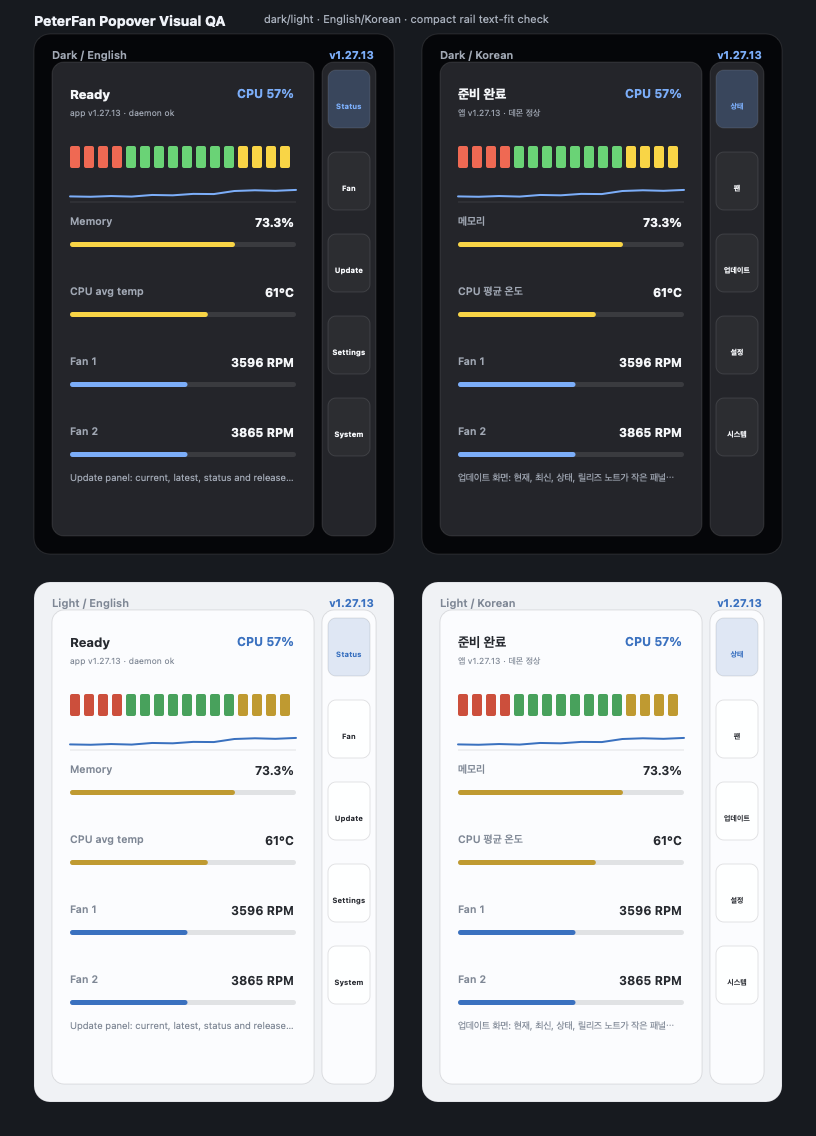
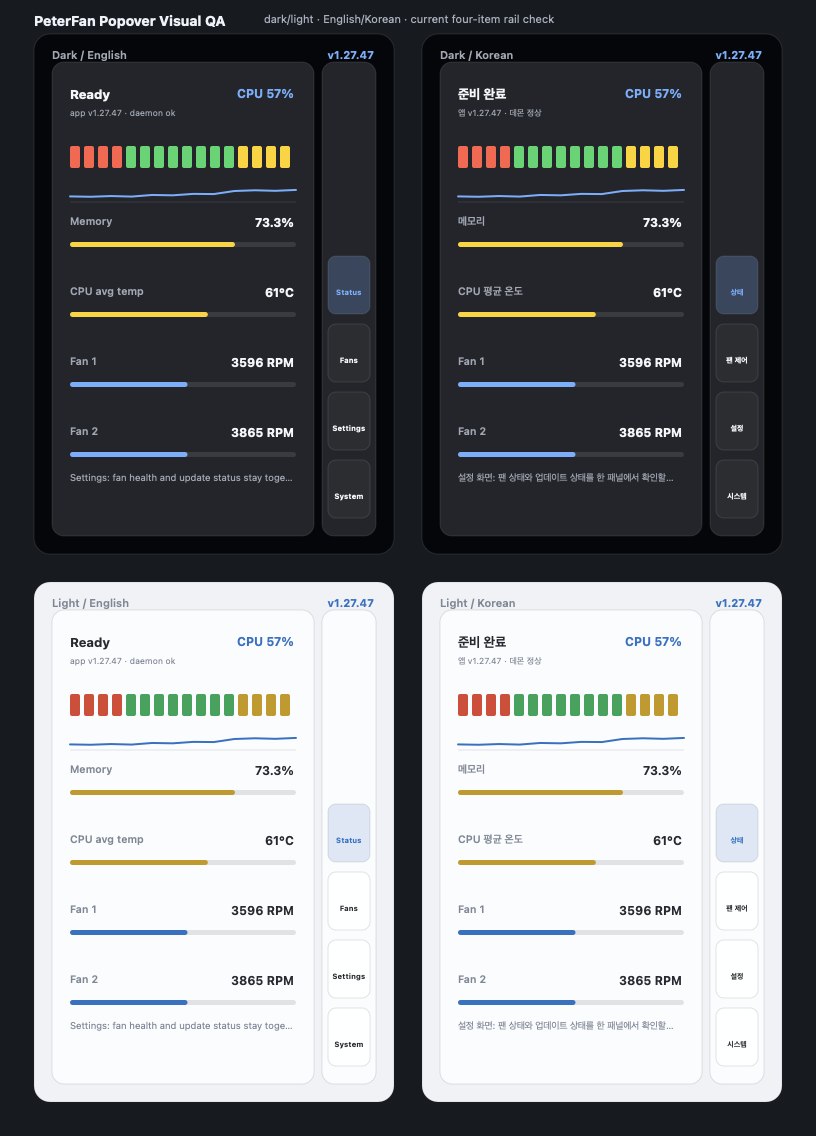
docs: align popover QA with current rail

diff --git a/scripts/render-popover-qa.swift b/scripts/render-popover-qa.swift
@@ -177,23 +177,25 @@ func drawCase(_ spec: CaseSpec, origin: CGPoint) {
     }
 
     let notes = label(
-        "Update panel: current, latest, status and release notes fit inside the compact pane.",
-        "업데이트 화면: 현재, 최신, 상태, 릴리즈 노트가 작은 패널 안에서 잘려 보이지 않아야 합니다.",
+        "Settings: fan health and update status stay together in one compact pane.",
+        "설정 화면: 팬 상태와 업데이트 상태를 한 패널에서 확인할 수 있어야 합니다.",
         spec
     )
     text(notes, NSRect(x: panel.minX + 18, y: panel.minY + 20, width: 226, height: 44), 9.5, p.dim)
 
     let railLabels = [
         label("Status", "상태", spec),
-        label("Fan", "팬", spec),
-        label("Update", "업데이트", spec),
+        label("Fans", "팬 제어", spec),
         label("Settings", "설정", spec),
         label("System", "시스템", spec),
     ]
+    let railItemHeight: CGFloat = 58
+    let railGap: CGFloat = 10
+    let railBottomInset: CGFloat = 18
     for (index, item) in railLabels.enumerated() {
-        let y = rail.maxY - 66 - CGFloat(index) * 82
+        let y = rail.minY + railBottomInset + CGFloat(railLabels.count - 1 - index) * (railItemHeight + railGap)
         let fill = index == 0 ? p.accent.withAlphaComponent(spec.isDark ? 0.24 : 0.15) : p.section
-        rounded(NSRect(x: rail.minX + 6, y: y, width: 42, height: 58), radius: 8, fill: fill, stroke: p.line)
+        rounded(NSRect(x: rail.minX + 6, y: y, width: 42, height: railItemHeight), radius: 8, fill: fill, stroke: p.line)
         text(item, NSRect(x: rail.minX + 8, y: y + 11, width: 38, height: 15), 7.4, index == 0 ? p.accent : p.text, weight: .bold, align: .center)
     }
 }
@@ -202,7 +204,7 @@ image.lockFocus()
 c(18, 20, 24).setFill()
 NSRect(origin: .zero, size: size).fill()
 text("PeterFan Popover Visual QA", NSRect(x: margin, y: size.height - 30, width: 320, height: 18), 14, c(234, 238, 246), weight: .bold)
-text("dark/light · English/Korean · compact rail text-fit check", NSRect(x: margin + 230, y: size.height - 30, width: 420, height: 18), 11, c(151, 161, 176))
+text("dark/light · English/Korean · current four-item rail check", NSRect(x: margin + 230, y: size.height - 30, width: 420, height: 18), 11, c(151, 161, 176))
 
 let cases = [
     CaseSpec(title: "Dark / English", language: "en", palette: dark, isKorean: false, isDark: true),
